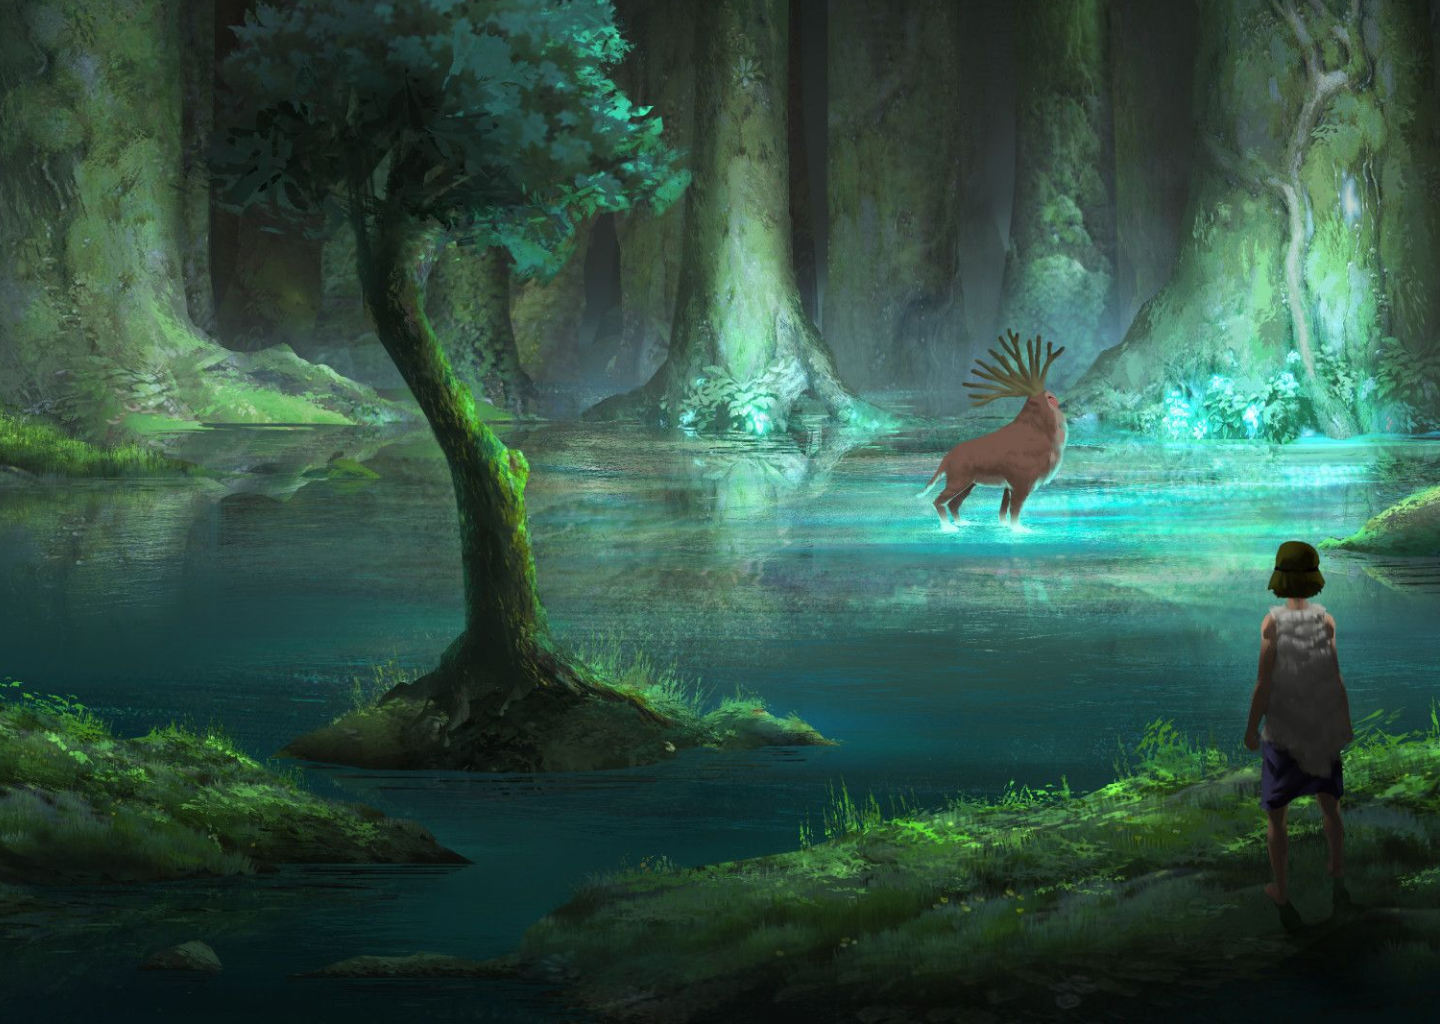
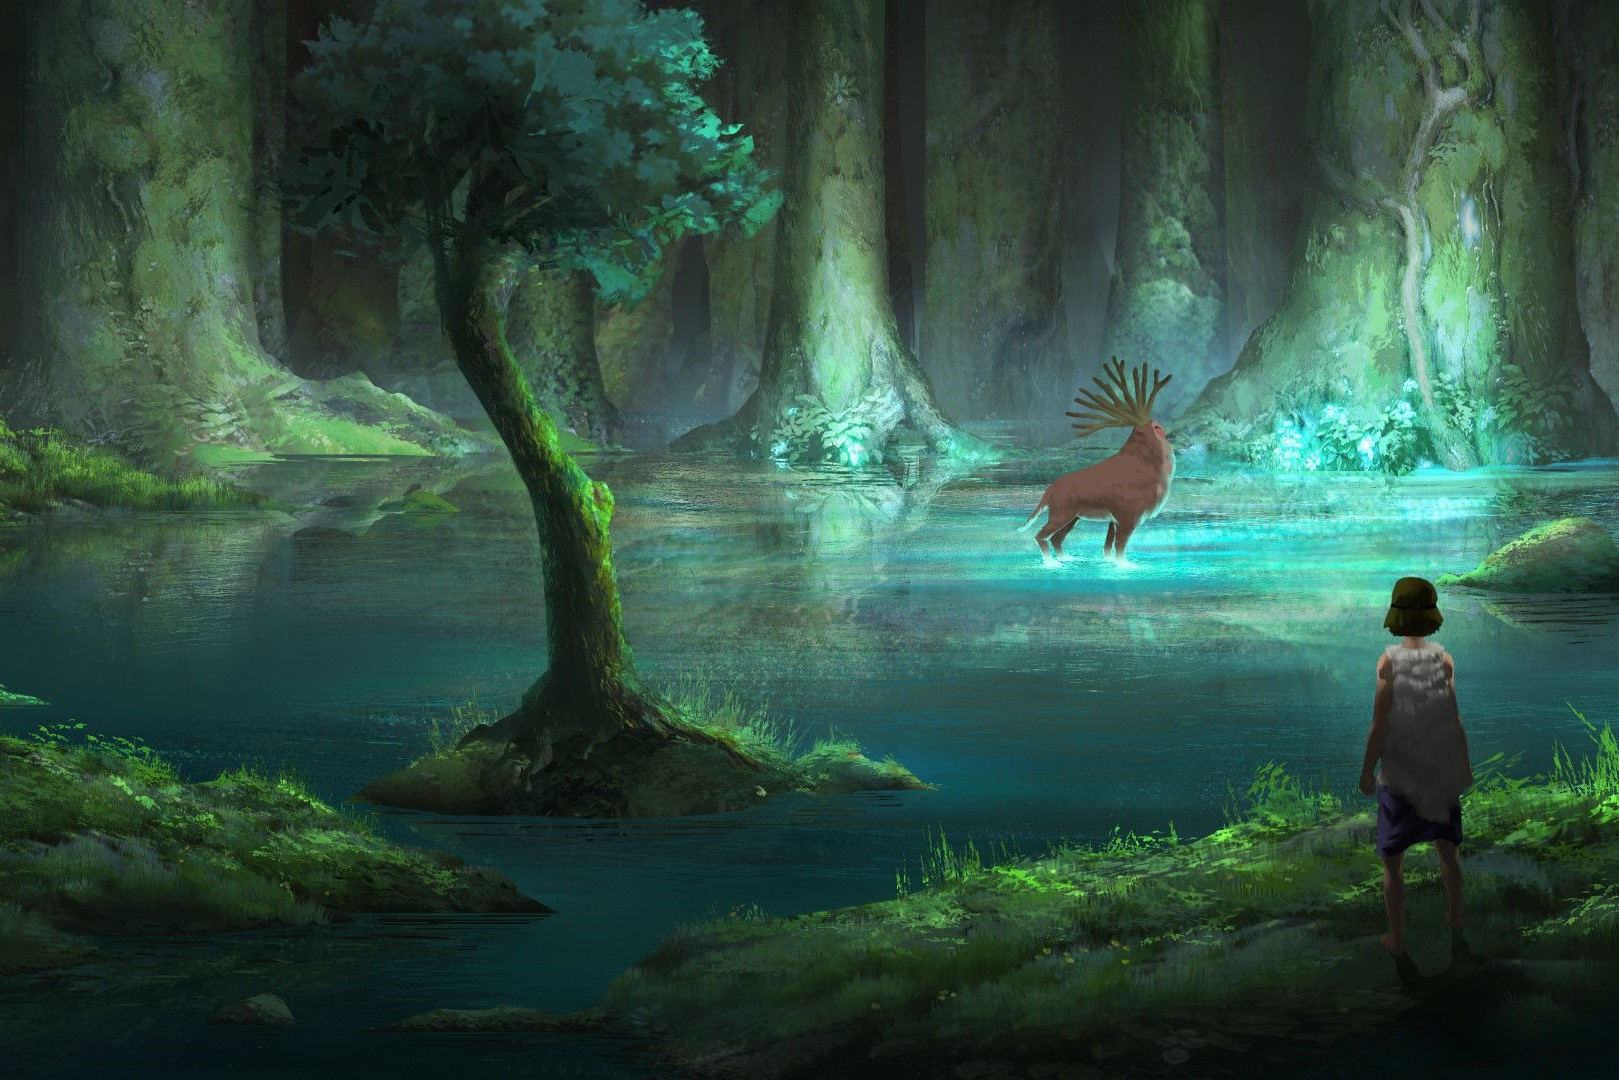
Intro and Game Display design improvements(intro image and bg image padding, height and width)

diff --git a/src/style.css b/src/style.css
@@ -39,6 +39,7 @@
   border-radius: 25px;
   background: rgba(50, 224, 214, 0.23);
 
+
 }
 
 .cardContainer {
@@ -94,8 +95,8 @@
   position:relative;
   display:grid;
   flex-wrap:wrap;
-  height: 100%;
-  width: 100%;
+  height: auto;
+  width: auto;
 }
 
 .header {
@@ -121,6 +122,13 @@
   border-radius: 25px;
   height: 500px;
   width: 300px;
+  margin-left: 10px;
+  margin-right: 30px;
+  margin-bottom:50px;
+  margin-top: none;
+  
+ 
+
 }
 
 /* estilo  de la intro*/
@@ -134,14 +142,18 @@
 
 .intro {
   background-image: radial-gradient(circle at 15.93% 1.35%, #78d2b2 0, #70d3b9 10%, #68d3c1 20%, #60d3c9 30%, #5ad3d1 40%, #55d3d8 50%, #52d3df 60%, #52d2e6 70%, #54d1ec 80%, #59d0f1 90%, #60cef6 100%);
+  height: 832px;
 }
 
 .img-intro {
   position:relative;
-  width:645px;
-  height:732px;
-  margin-left:397px;
-  margin-top:69px;
+  width: 550px;
+  height: 713px;
+  display:block;
+  margin:auto;
+  padding: 20px;
+  justify-content: center;
+
 }
 
 .btn-intro {
@@ -156,8 +168,9 @@
   outline:none;
   border:none;
   margin:0 auto;
-  margin-top:3px;
-  margin-bottom:3px;
+  margin-top: none;
+  margin-bottom:10px;
+  justify-content: center;
 }
 
 .btn-intro:hover{
